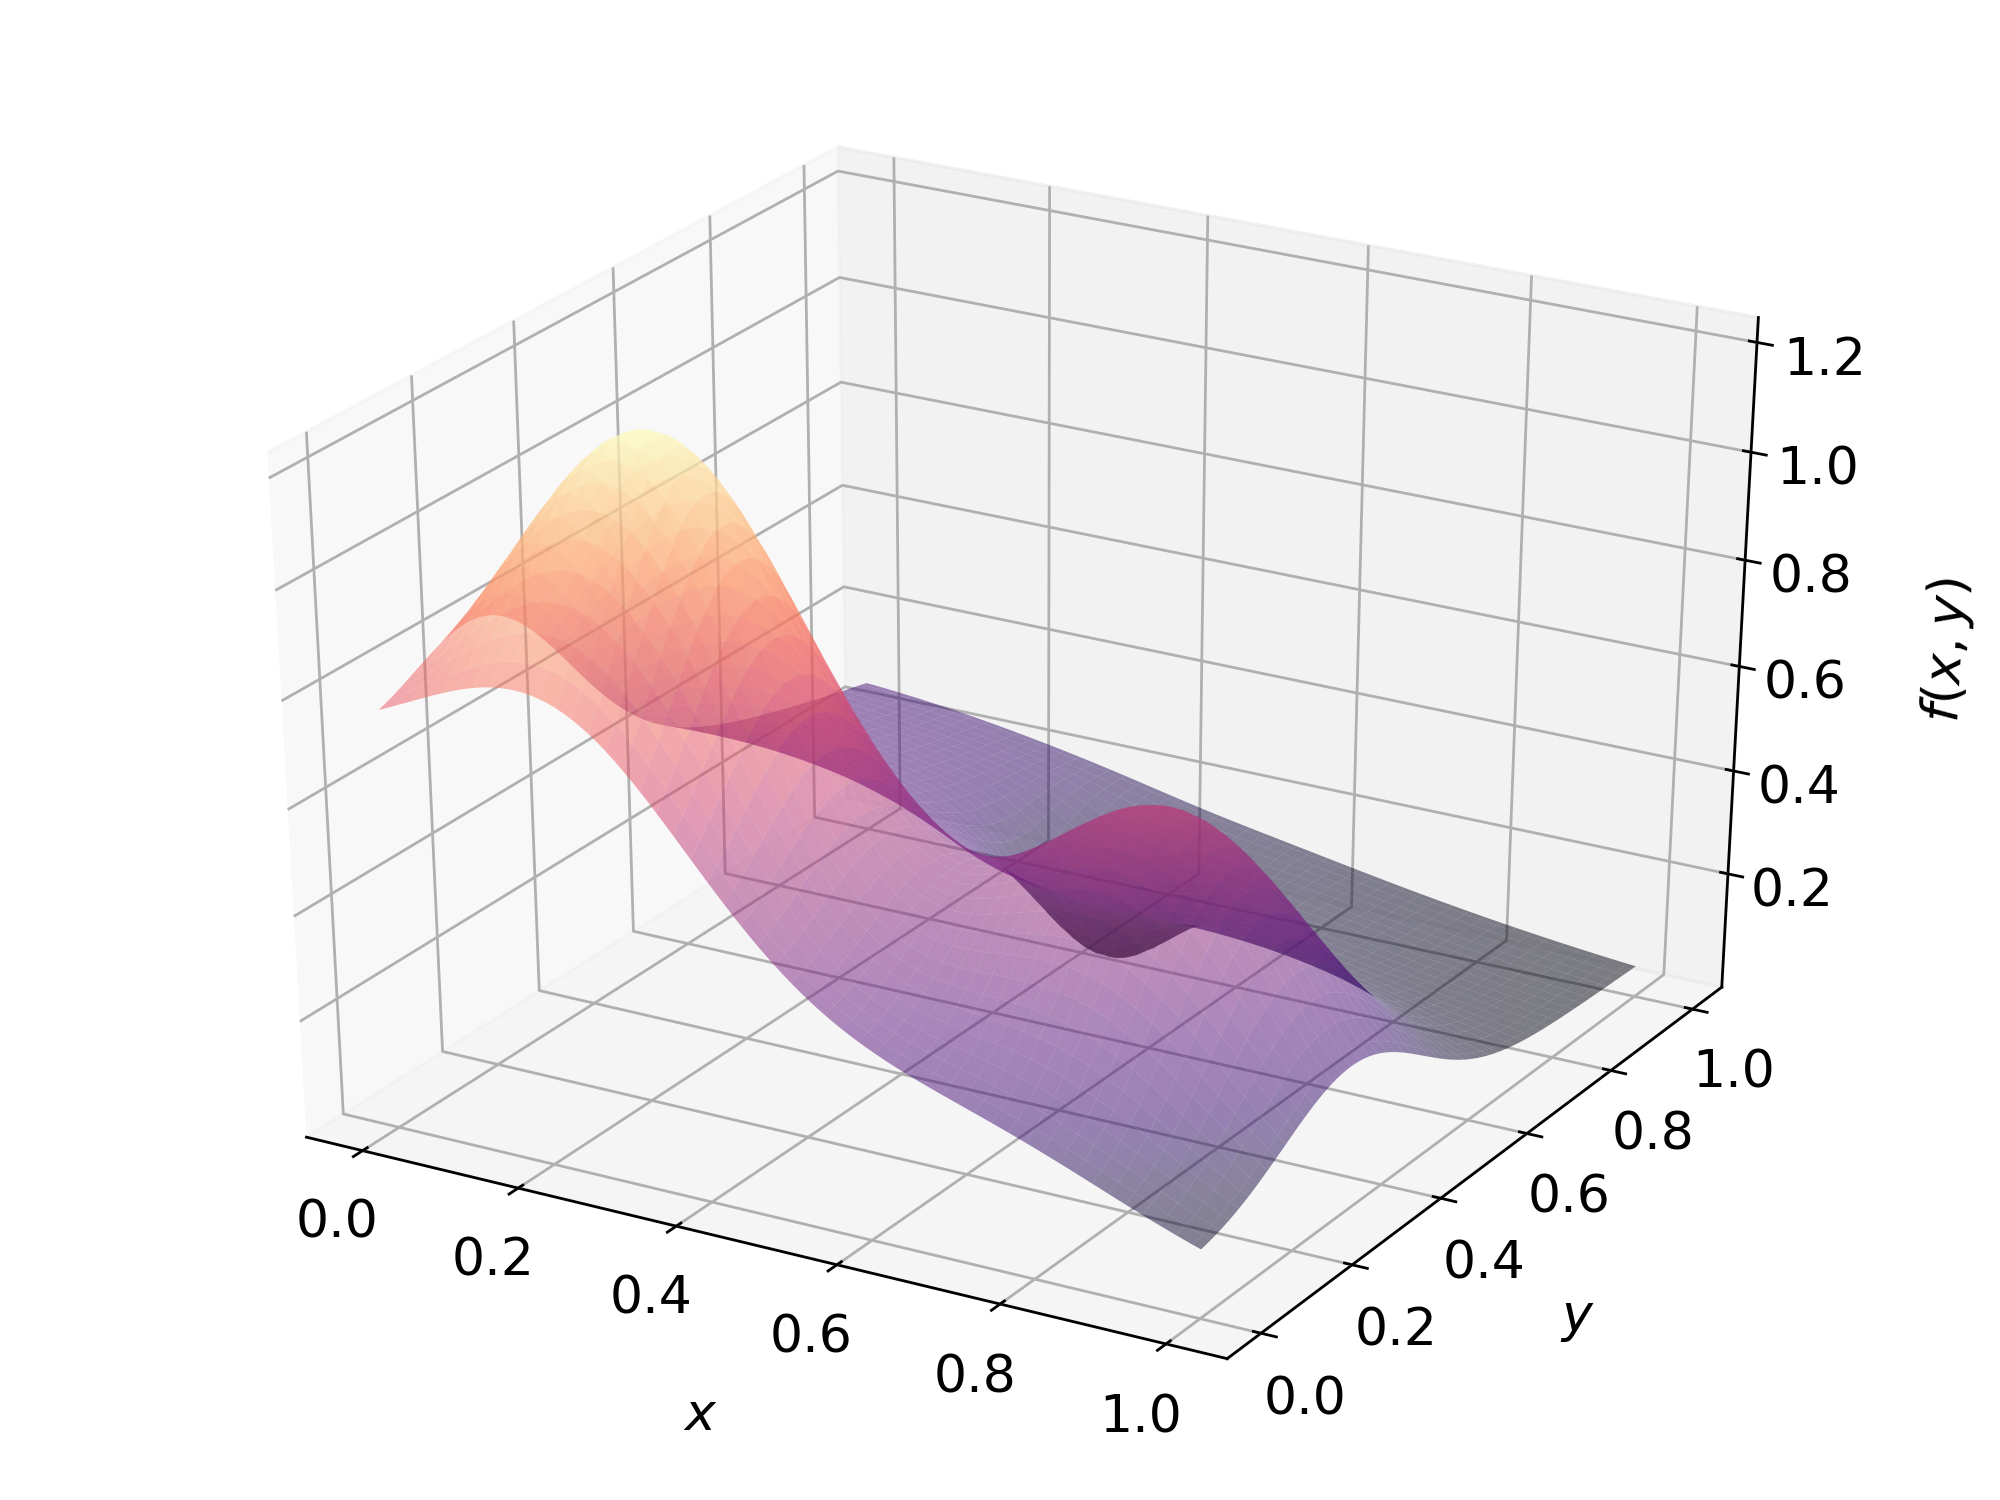
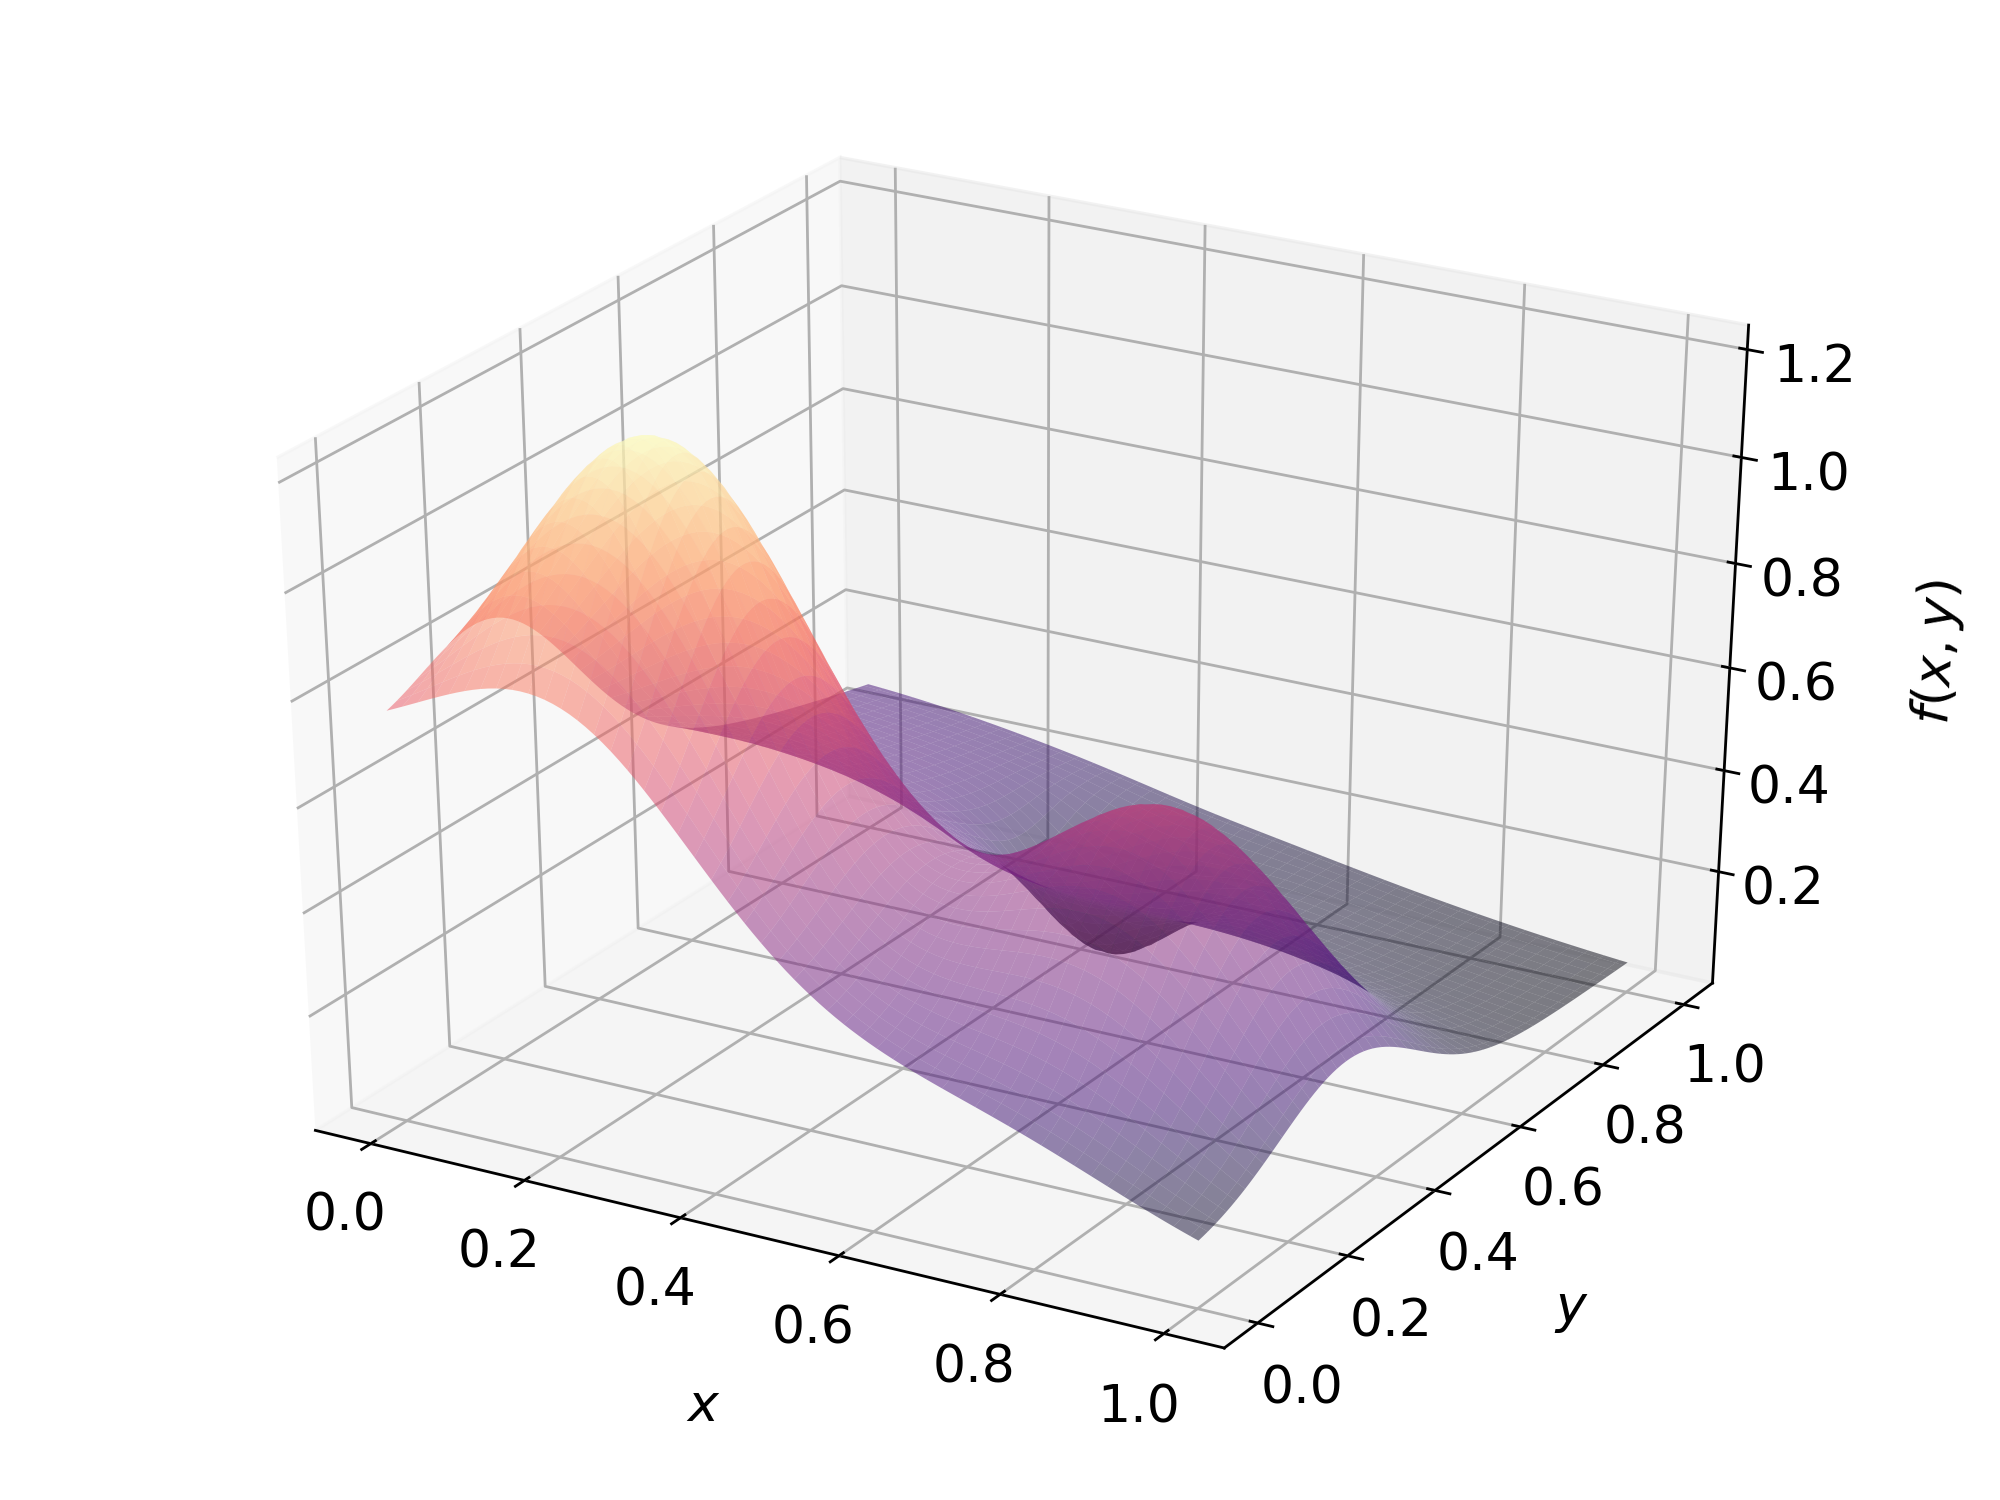
stuff

diff --git a/FYS-STK4155/Project_1/Project_1.py b/FYS-STK4155/Project_1/Project_1.py
@@ -330,6 +330,7 @@ def part_D(R, f_xy = None, save = False, plots = False, name = ""):
 
         xlabel = "Polynomial Degree"
         ylabel = r"Hyperparameter $\lambda$"
+        
 
         for n,(i,j) in enumerate(zip(data, data_labels)):
             fig = plt.figure()
@@ -551,11 +552,11 @@ if __name__ == "__main__":
 
     print("\n\n\t\tFRANKE FUNCTION\n\n")
 
-    part_A(R = R_Franke, save = save_all, plots = plots)
-    part_B(R = R_Franke, save = save_all, plots = plots)
-    part_C(R = R_Franke, f_xy = f_xy, save = save_all, plots = plots)
-    part_D(R = R_Franke, f_xy = f_xy, save = save_all, plots = plots)
-    part_E(R = R_Franke, f_xy = f_xy, save = save_all, plots = plots)
+#    part_A(R = R_Franke, save = save_all, plots = plots)
+#    part_B(R = R_Franke, save = save_all, plots = plots)
+#    part_C(R = R_Franke, f_xy = f_xy, save = save_all, plots = plots)
+#    part_D(R = R_Franke, f_xy = f_xy, save = save_all, plots = plots)
+#    part_E(R = R_Franke, f_xy = f_xy, save = save_all, plots = plots)
 
     """Parts f and g"""
 
@@ -569,11 +570,34 @@ if __name__ == "__main__":
     x, y = part_F(save = save_all, plots = plots)
     R_real = Regression(x, y, max_iter = max_iter)
 
-    part_A(R = R_real, save = save_all, plots = plots)
-    part_B(R = R_real, save = save_all, plots = plots)
-    part_C(R = R_real, save = save_all, plots = plots)
-    part_D(R = R_real, save = save_all, plots = plots)
-    part_E(R = R_real, save = save_all, plots = plots)
+#    part_A(R = R_real, save = save_all, plots = plots)
+#    part_B(R = R_real, save = save_all, plots = plots)
+#    part_C(R = R_real, save = save_all, plots = plots)
+#    part_D(R = R_real, save = save_all, plots = plots)
+#    part_E(R = R_real, save = save_all, plots = plots)
 
     dt = time() - t1
     print(f"\nElapsed time: {dt:.0f} s(~{dt/60:.0f} m,  ~{dt/3600:.0f} h)")
+    
+    x_min, x_max, N = 0, 1, 100
+    x = np.linspace(x_min, x_max, int(N))
+    X,Y = np.meshgrid(x, x)
+    
+    R_Franke.reset()
+    arg_idx = R_Franke.split(test_size = split_test)
+    R_Franke.poly(degree = 9, alpha = 1e-16)
+    
+    Y_hat = R_Franke.predict()
+    
+#    plt.plot(R_Franke._X, Y_hat)
+    
+#    fig = plt.figure()
+#    ax = fig.gca(projection="3d")
+#    ax.plot_surface(X, Y, Y_hat)
+#    plt.show()
+    
+    R_Franke.plot(plot_points = False, xlabel = "x", ylabel = "y", zlabel = "f(x,y)", detail = 0.9)
+    
+    
+    
+    

diff --git a/FYS-STK4155/utils/classes.py b/FYS-STK4155/utils/classes.py
@@ -947,7 +947,7 @@ class Regression():
 
         """
         self._check_regr("plot")
-        plt.style.use("seaborn")
+        #plt.style.use("seaborn")
 
         if self._p not in [1,2]:
             error_msg = (f"\n\nAttempting to call method <Regression.plot()> "
